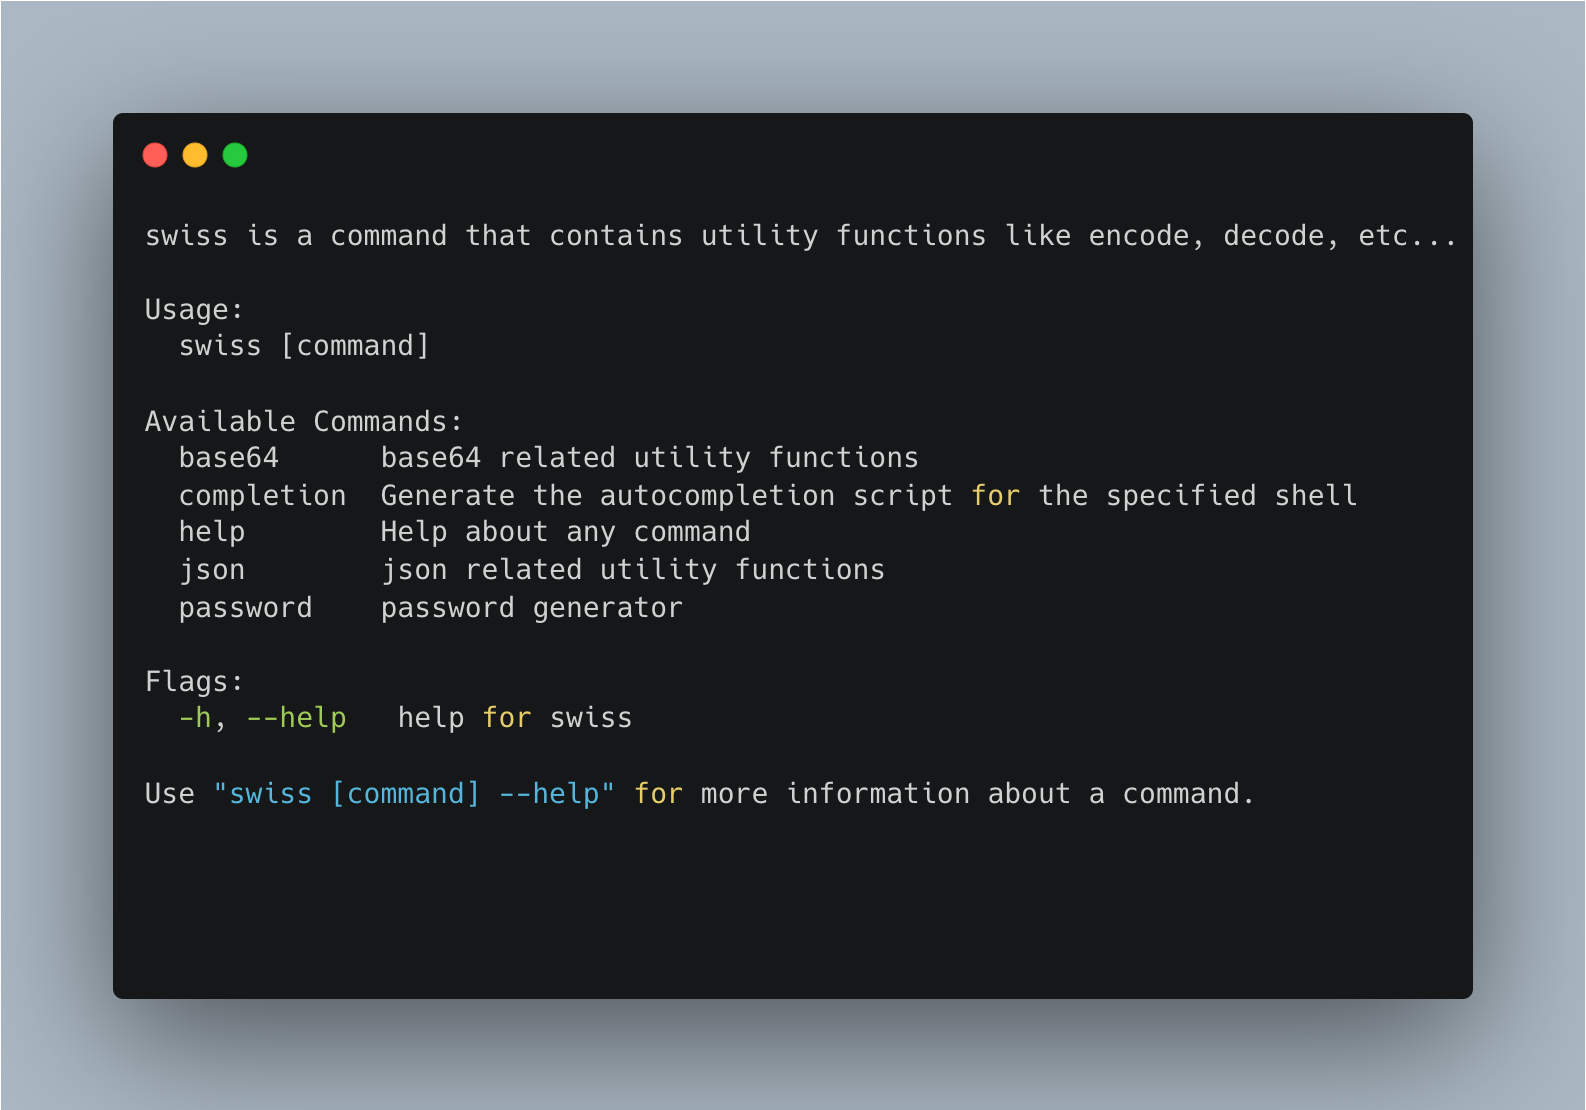
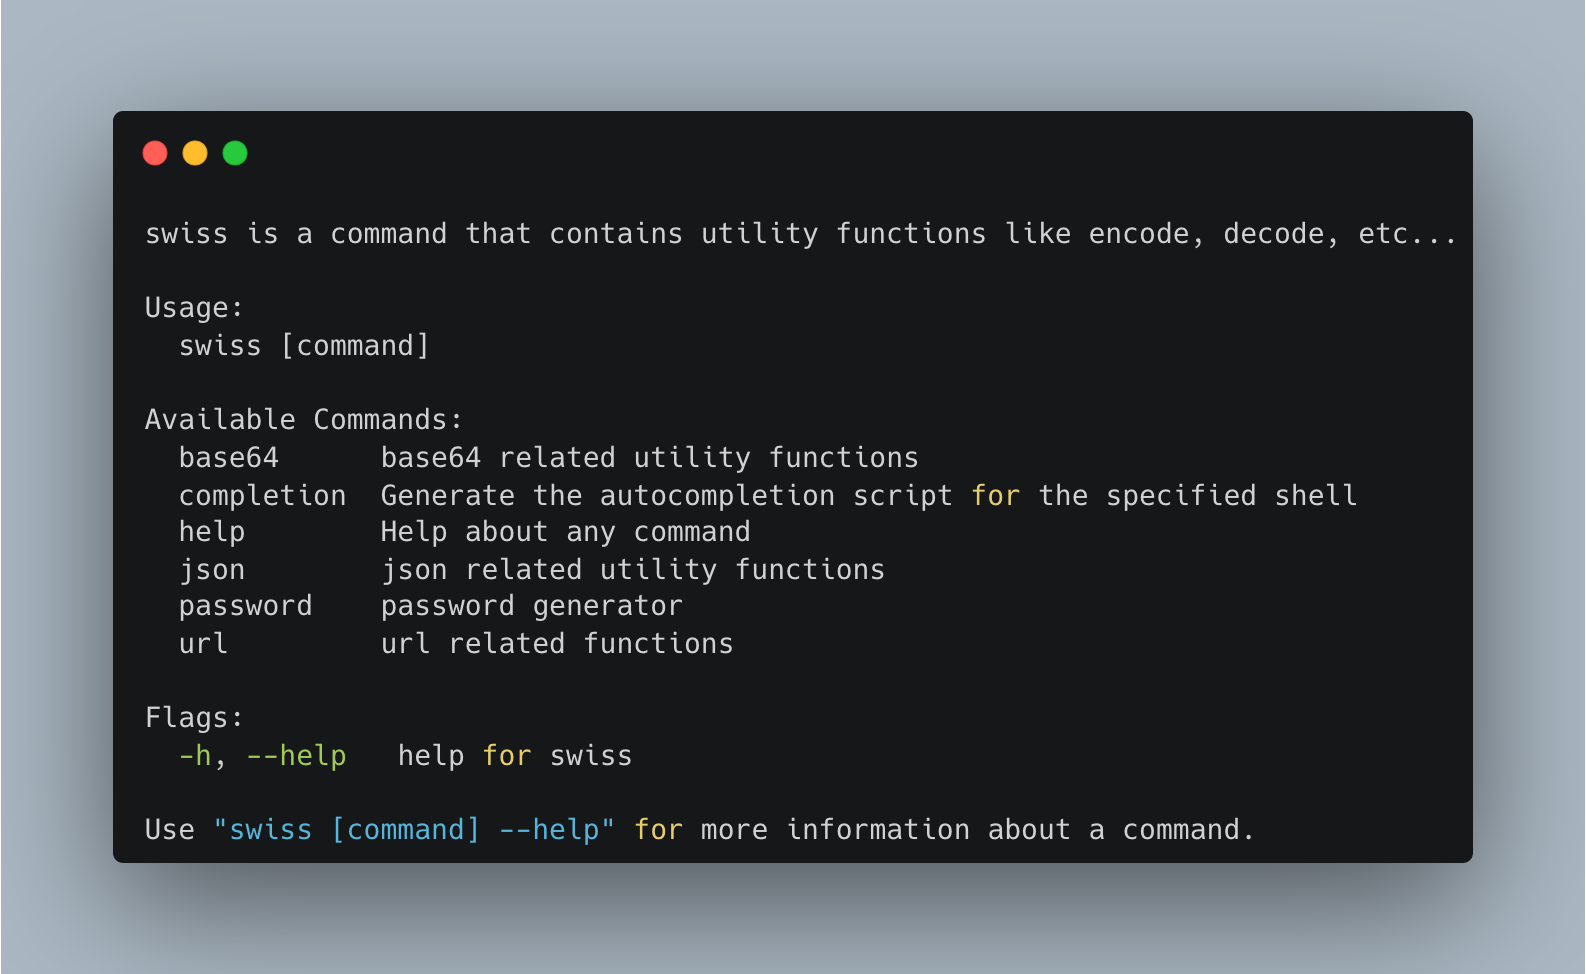
url encode decode is added

diff --git a/cmd/url.go b/cmd/url.go
@@ -1,0 +1,56 @@
+package cmd
+
+import (
+	"fmt"
+	"github.com/spf13/cobra"
+	"log"
+	"swiss/internal/url"
+)
+
+var urlString string
+
+var urlCmd = &cobra.Command{
+	Use:   "url",
+	Short: "url related functions",
+}
+var urlEncodeCmd = &cobra.Command{
+	Use:   "encode",
+	Short: "Encodes url",
+	RunE: func(cmd *cobra.Command, args []string) error {
+		encodedUrl, err := url.Encode(urlString)
+		if err != nil {
+			return err
+		}
+		fmt.Print(encodedUrl)
+		return nil
+	},
+}
+
+var urlDecodeCmd = &cobra.Command{
+	Use:   "decode",
+	Short: "Decodes url",
+	RunE: func(cmd *cobra.Command, args []string) error {
+		decodedUrl, err := url.Decode(urlString)
+		if err != nil {
+			return err
+		}
+		fmt.Print(decodedUrl)
+		return nil
+	},
+}
+
+func init() {
+	urlEncodeCmd.Flags().StringVar(&urlString, "url", "", "URL")
+	err := urlEncodeCmd.MarkFlagRequired("url")
+	if err != nil {
+		log.Fatalf("Please provide a valid url --url parameter")
+	}
+	urlDecodeCmd.Flags().StringVar(&urlString, "url", "", "URL")
+	err = urlDecodeCmd.MarkFlagRequired("url")
+	if err != nil {
+		log.Fatalf("Please provide a valid url --url parameter")
+	}
+	urlCmd.AddCommand(urlEncodeCmd)
+	urlCmd.AddCommand(urlDecodeCmd)
+	rootCmd.AddCommand(urlCmd)
+}

diff --git a/internal/url/url.go b/internal/url/url.go
@@ -1,0 +1,11 @@
+package url
+
+import "net/url"
+
+func Encode(in string) (string, error) {
+	return url.QueryEscape(in), nil
+}
+
+func Decode(in string) (string, error) {
+	return url.QueryUnescape(in)
+}

diff --git a/README.md b/README.md
@@ -3,7 +3,7 @@
 ![](assets/swiss-layout.png)
 
 # Todo
-- [ ] JSON
+- [x] JSON
   - [x] Beautify
   - [x] Uglify
   - [x] ToYAML
@@ -14,6 +14,6 @@
   - [ ] ToJSON
 - [x] Password
   - [x] Generator
-- [ ] URL
-  - [ ] Encode
-  - [ ] Decode
+- [x] URL
+  - [x] Encode
+  - [x] Decode
